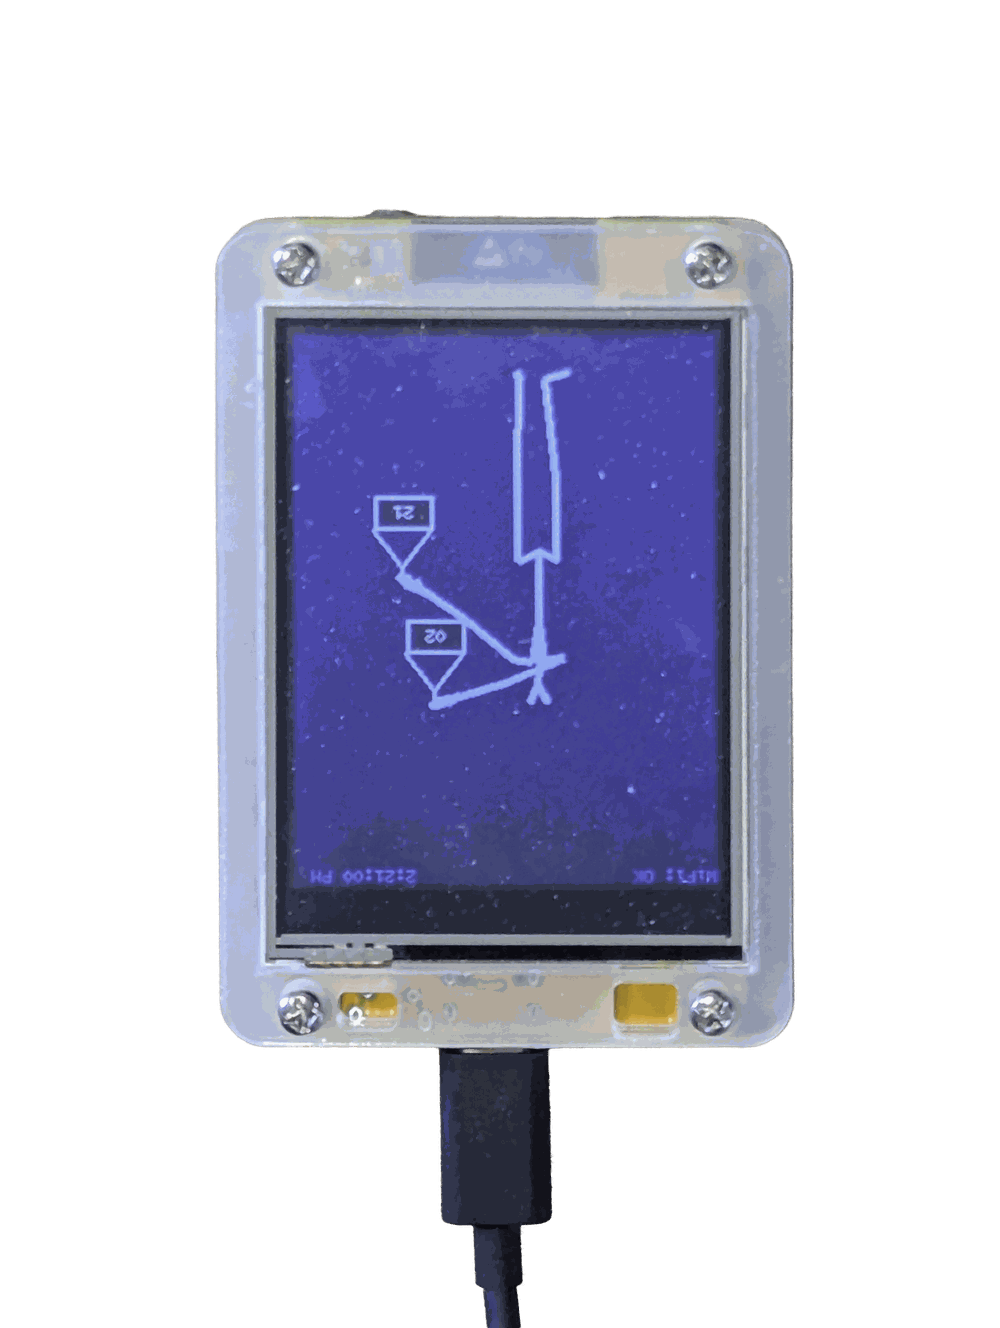
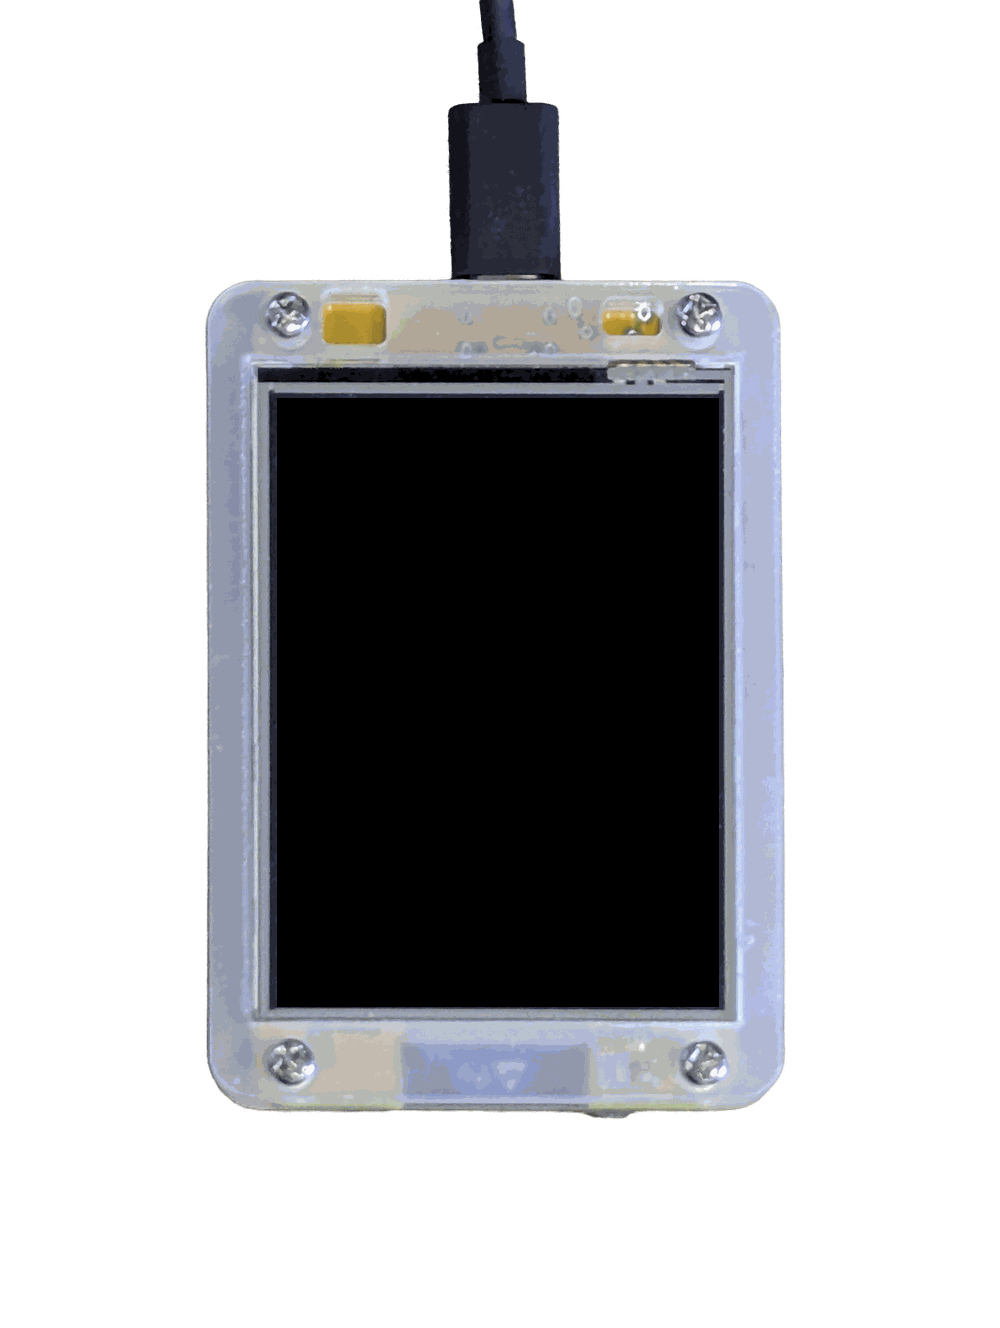
feat: enhance UI controls for case and cord elements in simulators

diff --git a/crates/linkage-blaze-classic-wasm/www/controls.js b/crates/linkage-blaze-classic-wasm/www/controls.js
@@ -1,16 +1,30 @@
-// Live tuner for the case-photo fit. Builds a small panel of sliders + number
-// inputs bound to the `.case` element's width/height/left/top (browser px), with
-// a copyable CSS output box. Remove the <script> include to drop it.
+// Live tuner for the framed device UI. Builds a panel of sliders + number inputs
+// bound to the `.case` photo and the `.cord` extension (browser px), with a
+// copyable CSS output box. Remove the <script> include to drop it.
 
-const caseEl = document.querySelector(".case");
-if (caseEl) {
-  const FIELDS = [
-    { key: "width", min: 600, max: 1600 },
-    { key: "height", min: 800, max: 2000 },
-    { key: "left", min: -700, max: 200 },
-    { key: "top", min: -900, max: 200 },
-  ];
+const GROUPS = [
+  {
+    label: ".stage .case",
+    selector: ".case",
+    fields: [
+      { key: "width", min: 600, max: 1600 },
+      { key: "height", min: 800, max: 2000 },
+      { key: "left", min: -700, max: 200 },
+      { key: "top", min: -900, max: 200 },
+    ],
+  },
+  {
+    label: ".stage .cord",
+    selector: ".cord",
+    fields: [
+      { key: "left", min: 100, max: 360 },
+      { key: "width", min: 4, max: 120 },
+    ],
+  },
+];
 
+const present = GROUPS.filter((group) => document.querySelector(group.selector));
+if (present.length) {
   const panel = document.createElement("div");
   panel.style.cssText = [
     "position:fixed", "top:8px", "right:8px", "z-index:10",
@@ -18,59 +32,64 @@ if (caseEl) {
     "border-radius:8px", "font:12px/1.5 monospace", "box-shadow:0 4px 16px rgba(0,0,0,0.5)",
   ].join(";");
 
-  const inputs = {};
-  const read = (key) => parseFloat(getComputedStyle(caseEl)[key]);
-
   const output = document.createElement("textarea");
   output.readOnly = true;
-  output.rows = 6;
-  output.style.cssText = "width:230px;margin-top:6px;background:#0d1117;color:#9ee37d;border:1px solid #333;font:11px/1.4 monospace;resize:vertical";
+  output.rows = 4 + present.reduce((n, g) => n + g.fields.length, 0);
+  output.style.cssText = "width:236px;margin-top:6px;background:#0d1117;color:#9ee37d;border:1px solid #333;font:11px/1.4 monospace;resize:vertical";
+
+  const read = (el, key) => Math.round(parseFloat(getComputedStyle(el)[key]));
 
   function refreshOutput() {
-    const v = (k) => Math.round(read(k));
-    output.value =
-      ".stage .case {\n" +
-      `  width: ${v("width")}px;\n` +
-      `  height: ${v("height")}px;\n` +
-      `  left: ${v("left")}px;\n` +
-      `  top: ${v("top")}px;\n` +
-      "}";
+    output.value = present
+      .map((group) => {
+        const el = document.querySelector(group.selector);
+        const lines = group.fields.map(({ key }) => `  ${key}: ${read(el, key)}px;`);
+        return `${group.label} {\n${lines.join("\n")}\n}`;
+      })
+      .join("\n");
   }
 
-  function setField(key, value) {
-    caseEl.style[key] = `${value}px`;
-    inputs[key].range.value = value;
-    inputs[key].number.value = value;
-    refreshOutput();
-  }
+  for (const group of present) {
+    const el = document.querySelector(group.selector);
 
-  for (const { key, min, max } of FIELDS) {
-    const row = document.createElement("label");
-    row.style.cssText = "display:flex;align-items:center;gap:6px;white-space:nowrap";
+    const header = document.createElement("div");
+    header.textContent = group.label;
+    header.style.cssText = "margin-top:6px;color:#9aa7b8";
+    panel.append(header);
 
-    const name = document.createElement("span");
-    name.textContent = key.padEnd(6);
-    name.style.width = "44px";
+    for (const { key, min, max } of group.fields) {
+      const row = document.createElement("label");
+      row.style.cssText = "display:flex;align-items:center;gap:6px;white-space:nowrap";
 
-    const range = document.createElement("input");
-    range.type = "range";
-    range.min = min; range.max = max; range.step = 1;
-    range.style.width = "120px";
+      const name = document.createElement("span");
+      name.textContent = key;
+      name.style.width = "44px";
 
-    const number = document.createElement("input");
-    number.type = "number";
-    number.min = min; number.max = max; number.step = 1;
-    number.style.cssText = "width:56px;background:#0d1117;color:#dfe7f2;border:1px solid #333";
+      const range = document.createElement("input");
+      range.type = "range";
+      range.min = min; range.max = max; range.step = 1;
+      range.style.width = "120px";
 
-    const current = Math.round(read(key));
-    range.value = current; number.value = current;
+      const number = document.createElement("input");
+      number.type = "number";
+      number.min = min; number.max = max; number.step = 1;
+      number.style.cssText = "width:56px;background:#0d1117;color:#dfe7f2;border:1px solid #333";
 
-    range.addEventListener("input", () => setField(key, Number(range.value)));
-    number.addEventListener("input", () => setField(key, Number(number.value)));
+      const current = read(el, key);
+      range.value = current; number.value = current;
 
-    inputs[key] = { range, number };
-    row.append(name, range, number);
-    panel.append(row);
+      const set = (value) => {
+        el.style[key] = `${value}px`;
+        range.value = value;
+        number.value = value;
+        refreshOutput();
+      };
+      range.addEventListener("input", () => set(Number(range.value)));
+      number.addEventListener("input", () => set(Number(number.value)));
+
+      row.append(name, range, number);
+      panel.append(row);
+    }
   }
 
   panel.append(output);

diff --git a/crates/linkage-blaze-skeleton-clock-wasm/www/controls.js b/crates/linkage-blaze-skeleton-clock-wasm/www/controls.js
@@ -1,16 +1,30 @@
-// Live tuner for the case-photo fit. Builds a small panel of sliders + number
-// inputs bound to the `.case` element's width/height/left/top (browser px), with
-// a copyable CSS output box. Remove the <script> include to drop it.
+// Live tuner for the framed device UI. Builds a panel of sliders + number inputs
+// bound to the `.case` photo and the `.cord` extension (browser px), with a
+// copyable CSS output box. Remove the <script> include to drop it.
 
-const caseEl = document.querySelector(".case");
-if (caseEl) {
-  const FIELDS = [
-    { key: "width", min: 600, max: 1600 },
-    { key: "height", min: 800, max: 2000 },
-    { key: "left", min: -700, max: 200 },
-    { key: "top", min: -900, max: 200 },
-  ];
+const GROUPS = [
+  {
+    label: ".stage .case",
+    selector: ".case",
+    fields: [
+      { key: "width", min: 600, max: 1600 },
+      { key: "height", min: 800, max: 2000 },
+      { key: "left", min: -700, max: 200 },
+      { key: "top", min: -900, max: 200 },
+    ],
+  },
+  {
+    label: ".stage .cord",
+    selector: ".cord",
+    fields: [
+      { key: "left", min: 100, max: 360 },
+      { key: "width", min: 4, max: 120 },
+    ],
+  },
+];
 
+const present = GROUPS.filter((group) => document.querySelector(group.selector));
+if (present.length) {
   const panel = document.createElement("div");
   panel.style.cssText = [
     "position:fixed", "top:8px", "right:8px", "z-index:10",
@@ -18,59 +32,64 @@ if (caseEl) {
     "border-radius:8px", "font:12px/1.5 monospace", "box-shadow:0 4px 16px rgba(0,0,0,0.5)",
   ].join(";");
 
-  const inputs = {};
-  const read = (key) => parseFloat(getComputedStyle(caseEl)[key]);
-
   const output = document.createElement("textarea");
   output.readOnly = true;
-  output.rows = 6;
-  output.style.cssText = "width:230px;margin-top:6px;background:#0d1117;color:#9ee37d;border:1px solid #333;font:11px/1.4 monospace;resize:vertical";
+  output.rows = 4 + present.reduce((n, g) => n + g.fields.length, 0);
+  output.style.cssText = "width:236px;margin-top:6px;background:#0d1117;color:#9ee37d;border:1px solid #333;font:11px/1.4 monospace;resize:vertical";
+
+  const read = (el, key) => Math.round(parseFloat(getComputedStyle(el)[key]));
 
   function refreshOutput() {
-    const v = (k) => Math.round(read(k));
-    output.value =
-      ".stage .case {\n" +
-      `  width: ${v("width")}px;\n` +
-      `  height: ${v("height")}px;\n` +
-      `  left: ${v("left")}px;\n` +
-      `  top: ${v("top")}px;\n` +
-      "}";
+    output.value = present
+      .map((group) => {
+        const el = document.querySelector(group.selector);
+        const lines = group.fields.map(({ key }) => `  ${key}: ${read(el, key)}px;`);
+        return `${group.label} {\n${lines.join("\n")}\n}`;
+      })
+      .join("\n");
   }
 
-  function setField(key, value) {
-    caseEl.style[key] = `${value}px`;
-    inputs[key].range.value = value;
-    inputs[key].number.value = value;
-    refreshOutput();
-  }
+  for (const group of present) {
+    const el = document.querySelector(group.selector);
 
-  for (const { key, min, max } of FIELDS) {
-    const row = document.createElement("label");
-    row.style.cssText = "display:flex;align-items:center;gap:6px;white-space:nowrap";
+    const header = document.createElement("div");
+    header.textContent = group.label;
+    header.style.cssText = "margin-top:6px;color:#9aa7b8";
+    panel.append(header);
 
-    const name = document.createElement("span");
-    name.textContent = key.padEnd(6);
-    name.style.width = "44px";
+    for (const { key, min, max } of group.fields) {
+      const row = document.createElement("label");
+      row.style.cssText = "display:flex;align-items:center;gap:6px;white-space:nowrap";
 
-    const range = document.createElement("input");
-    range.type = "range";
-    range.min = min; range.max = max; range.step = 1;
-    range.style.width = "120px";
+      const name = document.createElement("span");
+      name.textContent = key;
+      name.style.width = "44px";
 
-    const number = document.createElement("input");
-    number.type = "number";
-    number.min = min; number.max = max; number.step = 1;
-    number.style.cssText = "width:56px;background:#0d1117;color:#dfe7f2;border:1px solid #333";
+      const range = document.createElement("input");
+      range.type = "range";
+      range.min = min; range.max = max; range.step = 1;
+      range.style.width = "120px";
 
-    const current = Math.round(read(key));
-    range.value = current; number.value = current;
+      const number = document.createElement("input");
+      number.type = "number";
+      number.min = min; number.max = max; number.step = 1;
+      number.style.cssText = "width:56px;background:#0d1117;color:#dfe7f2;border:1px solid #333";
 
-    range.addEventListener("input", () => setField(key, Number(range.value)));
-    number.addEventListener("input", () => setField(key, Number(number.value)));
+      const current = read(el, key);
+      range.value = current; number.value = current;
 
-    inputs[key] = { range, number };
-    row.append(name, range, number);
-    panel.append(row);
+      const set = (value) => {
+        el.style[key] = `${value}px`;
+        range.value = value;
+        number.value = value;
+        refreshOutput();
+      };
+      range.addEventListener("input", () => set(Number(range.value)));
+      number.addEventListener("input", () => set(Number(number.value)));
+
+      row.append(name, range, number);
+      panel.append(row);
+    }
   }
 
   panel.append(output);

diff --git a/crates/linkage-blaze-classic-wasm/www/index.html b/crates/linkage-blaze-classic-wasm/www/index.html
@@ -21,6 +21,7 @@
        Note: one CYD pixel is two browser pixels here. */
     .stage {
       position: relative;
+      z-index: 0; /* stacking context so the cord (z-index:-1) sits behind the case */
       width: 480px;
       height: 640px;
     }
@@ -40,10 +41,22 @@
       position: absolute;
       z-index: 0;
       width: 1087px;
-      height: 1395px;
-      left: -308px;
-      top: -340px;
+      height: 1396px;
+      left: -301px;
+      top: -418px;
       filter: drop-shadow(0 14px 30px rgba(0, 0, 0, 0.55));
+    }
+    /* Extends the USB cord off the top of the page. Behind the case, ending at
+       the case image's top edge (top: -418px) where the real cord begins. */
+    .stage .cord {
+      position: absolute;
+      z-index: -1;
+      left: 220px;
+      width: 35px;
+      top: -2400px;
+      height: 1982px; /* down to the case image's top edge (-418px) */
+      /* dark grey cord with a lighter sheen stripe from 50%-90% of its width */
+      background: linear-gradient(to right, #333 0 50%, #4d4d4d 50% 90%, #333 90% 100%);
     }
     #status {
       position: fixed;
@@ -58,6 +71,7 @@
 
 <body>
   <div class="stage">
+    <div class="cord"></div>
     <img class="case" src="./case.png" alt="CYD device case" />
     <canvas id="screen" aria-label="CYD ballet display simulator"></canvas>
   </div>

diff --git a/crates/linkage-blaze-skeleton-clock-wasm/www/index.html b/crates/linkage-blaze-skeleton-clock-wasm/www/index.html
@@ -21,6 +21,7 @@
        Note: one CYD pixel is two browser pixels here. */
     .stage {
       position: relative;
+      z-index: 0; /* stacking context so the cord (z-index:-1) sits behind the case */
       width: 480px;
       height: 640px;
     }
@@ -40,10 +41,22 @@
       position: absolute;
       z-index: 0;
       width: 1087px;
-      height: 1395px;
-      left: -308px;
-      top: -340px;
+      height: 1396px;
+      left: -301px;
+      top: -418px;
       filter: drop-shadow(0 14px 30px rgba(0, 0, 0, 0.55));
+    }
+    /* Extends the USB cord off the top of the page. Behind the case, ending at
+       the case image's top edge (top: -418px) where the real cord begins. */
+    .stage .cord {
+      position: absolute;
+      z-index: -1;
+      left: 220px;
+      width: 35px;
+      top: -2400px;
+      height: 1982px; /* down to the case image's top edge (-418px) */
+      /* dark grey cord with a lighter sheen stripe from 50%-90% of its width */
+      background: linear-gradient(to right, #333 0 50%, #4d4d4d 50% 90%, #333 90% 100%);
     }
     #status {
       position: fixed;
@@ -58,6 +71,7 @@
 
 <body>
   <div class="stage">
+    <div class="cord"></div>
     <img class="case" src="./case.png" alt="CYD device case" />
     <canvas id="screen" aria-label="CYD skeleton-clock display simulator"></canvas>
   </div>